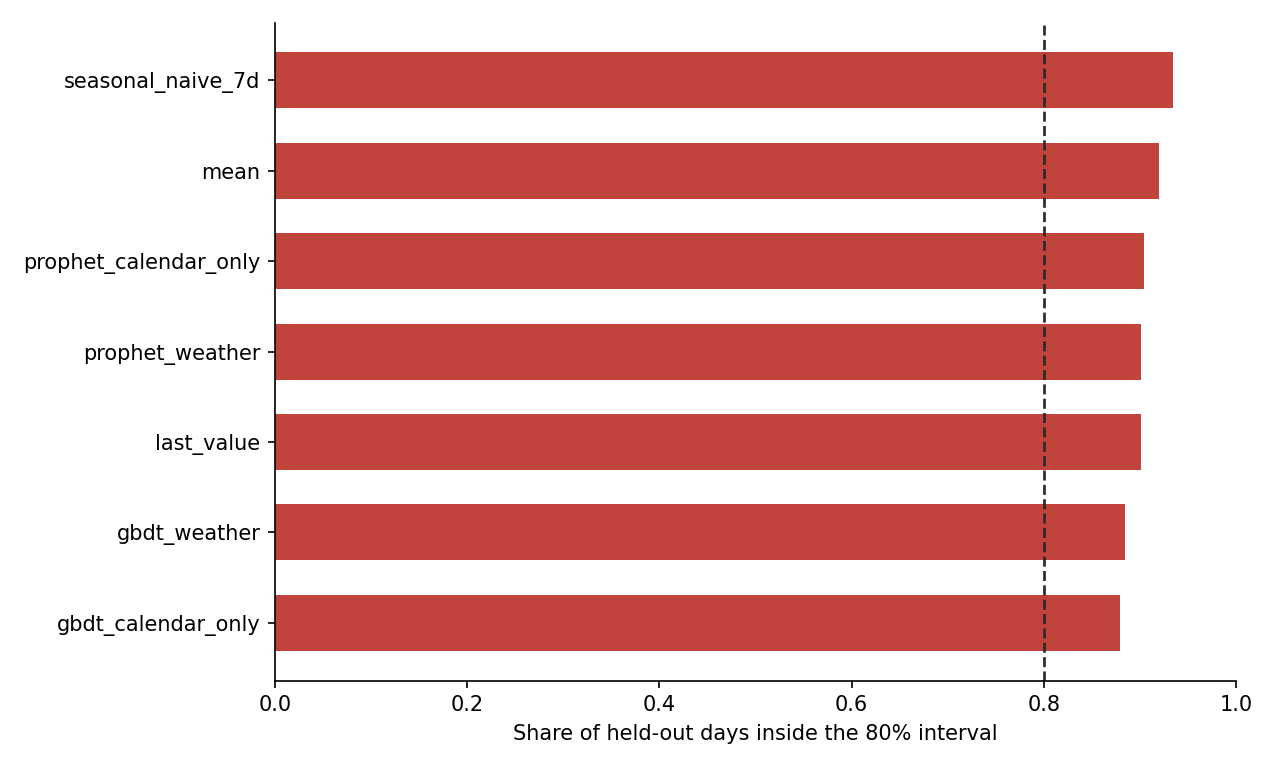
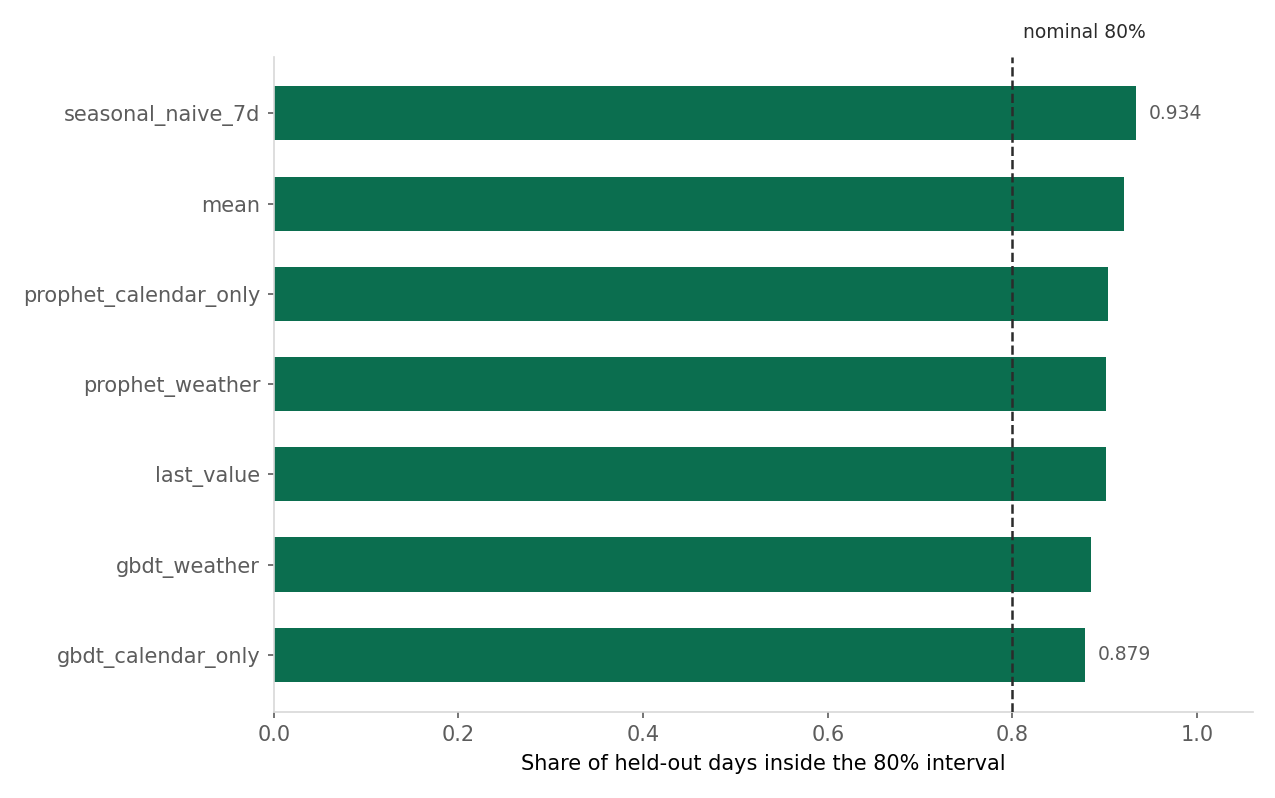
Fix three presentation bugs in the report figures
None of these changed a number; the verifier's 106 checks still pass.

- The 'nominal 80%' label on the coverage chart was annotated at a hardcoded
  categorical y coordinate that fell outside the axes, so it was clipped and
  the dashed threshold line shipped unlabelled
- Coverage bars were coloured by distance from nominal with a 0.05 tolerance,
  which no method cleared, so every bar rendered in the alarm colour and the
  hue carried no information. Now one hue, with the two extremes labelled
- The weekly-shape chart highlighted a day only when its mean was exactly 0.
  Saturday's mean is 49 units, not 0, so the highlight never fired and the bar
  drew a fifth of a pixel tall. Saturday now carries its value as a label,
  which is the finding the figure exists to show
- plot_weekly_shape indexed dow_mean_units with an int, which works in memory
  but raises KeyError on a dict loaded back from JSON. Handles both now

diff --git a/scripts/train.py b/scripts/train.py
@@ -15,6 +15,7 @@ import joblib
 import matplotlib
 matplotlib.use("Agg")
 import matplotlib.pyplot as plt
+import numpy as np
 import pandas as pd
 
 ROOT = Path(__file__).resolve().parent.parent
@@ -26,6 +27,7 @@ from demandsense.data import (  # noqa: E402
 )
 
 INK, ACCENT, WARN = "#2B2B2B", "#0B6E4F", "#C1443C"
+MUTED, HAIRLINE = "#5C5C5C", "#D8D8D8"
 
 
 def build_engines() -> list[tuple[str, object]]:
@@ -66,30 +68,87 @@ def plot_backtest(df, engine, horizon, initial, step, path: Path) -> None:
 
 
 def plot_coverage(summaries: dict[str, dict], path: Path) -> None:
+    """Coverage against the nominal 80%, one series so one colour.
+
+    Every method over-covers, so there is no status distinction to encode and
+    colouring by distance-from-nominal would paint all seven bars the same
+    alarm colour. Bar length carries the magnitude; the two extremes are
+    labelled because the README quotes that range, and the table carries the
+    rest.
+    """
     names = sorted(summaries, key=lambda n: summaries[n]["coverage_80"])
     cover = [summaries[n]["coverage_80"] for n in names]
-    colours = [ACCENT if abs(c - 0.80) <= 0.05 else WARN for c in cover]
-    fig, ax = plt.subplots(figsize=(8.5, 0.46 * len(names) + 1.9))
-    ax.barh(names, cover, color=colours, height=0.62)
-    ax.axvline(0.80, color=INK, ls="--", lw=1.3)
-    ax.annotate("nominal 80%", xy=(0.80, -0.85), xytext=(0.815, -0.85),
-                color=INK, fontsize=9, va="center")
-    ax.set_xlim(0, 1)
+
+    fig, ax = plt.subplots(figsize=(8.5, 0.46 * len(names) + 2.1))
+    ax.barh(names, cover, color=ACCENT, height=0.6)
+
+    # Dashed only because this is a genuine threshold, not a gridline.
+    ax.axvline(0.80, color=INK, ls="--", lw=1.2, zorder=3)
+    # Anchored in data x and axes-fraction y, so the label cannot fall outside
+    # the axes the way a hardcoded categorical y coordinate did.
+    # Sits in the margin ABOVE the plot area: inside the axes it collided with
+    # the top bar and its value label.
+    ax.annotate(
+        "nominal 80%", xy=(0.80, 1.0), xycoords=("data", "axes fraction"),
+        xytext=(5, 7), textcoords="offset points",
+        ha="left", va="bottom", fontsize=9, color=INK, annotation_clip=False,
+    )
+
+    lowest, highest = int(np.argmin(cover)), int(np.argmax(cover))
+    for i in (lowest, highest):
+        ax.annotate(f"{cover[i]:.3f}", xy=(cover[i], i), xytext=(6, 0),
+                    textcoords="offset points", va="center", ha="left",
+                    fontsize=9, color=MUTED)
+
+    ax.set_xlim(0, 1.06)
+    ax.set_xticks([0, 0.2, 0.4, 0.6, 0.8, 1.0])
     ax.set_xlabel("Share of held-out days inside the 80% interval")
+    ax.tick_params(length=3, colors=MUTED)
     ax.spines[["top", "right"]].set_visible(False)
+    for side in ("left", "bottom"):
+        ax.spines[side].set(linewidth=0.8, color=HAIRLINE)
     fig.tight_layout()
     fig.savefig(path, dpi=150)
     plt.close(fig)
 
 
+def _dow_mean(facts: dict, day: int) -> float:
+    """Day-of-week mean, tolerating the string keys a JSON round trip produces."""
+    table = facts["dow_mean_units"]
+    if day in table:
+        return float(table[day])
+    return float(table[str(day)])
+
+
 def plot_weekly_shape(facts: dict, path: Path) -> None:
+    """Mean units by weekday. The finding is Saturday, so Saturday is labelled.
+
+    Saturday's mean is 49 units, which is 0.2% of a weekday and draws as a bar
+    roughly a fifth of a pixel tall. Without a label it reads as a rendering
+    fault rather than as the point of the figure. Thursday is labelled too, as
+    the peak, and the axis carries the rest.
+    """
     labels = ["Mon", "Tue", "Wed", "Thu", "Fri", "Sat", "Sun"]
-    means = [facts["dow_mean_units"][d] / 1e3 for d in range(7)]
-    colours = [WARN if m == 0 else ACCENT for m in means]
-    fig, ax = plt.subplots(figsize=(7, 3.2))
-    ax.bar(labels, means, color=colours, width=0.62)
+    means = [_dow_mean(facts, d) for d in range(7)]
+
+    fig, ax = plt.subplots(figsize=(7.2, 3.4))
+    ax.set_axisbelow(True)
+    ax.grid(axis="y", color=HAIRLINE, lw=0.7, ls="-")
+    ax.bar(labels, [m / 1e3 for m in means], color=ACCENT, width=0.6, zorder=2)
+
+    peak = int(np.argmax(means))
+    quiet = int(np.argmin(means))
+    for i, note in ((peak, f"{means[peak]:,.0f}"), (quiet, f"{means[quiet]:,.0f} units")):
+        ax.annotate(note, xy=(i, means[i] / 1e3), xytext=(0, 6),
+                    textcoords="offset points", ha="center", va="bottom",
+                    fontsize=9, color=MUTED)
+
+    ax.set_ylim(0, max(means) / 1e3 * 1.18)
     ax.set_ylabel("Mean units per day (thousands)")
+    ax.tick_params(length=3, colors=MUTED)
     ax.spines[["top", "right"]].set_visible(False)
+    for side in ("left", "bottom"):
+        ax.spines[side].set(linewidth=0.8, color=HAIRLINE)
     fig.tight_layout()
     fig.savefig(path, dpi=150)
     plt.close(fig)
